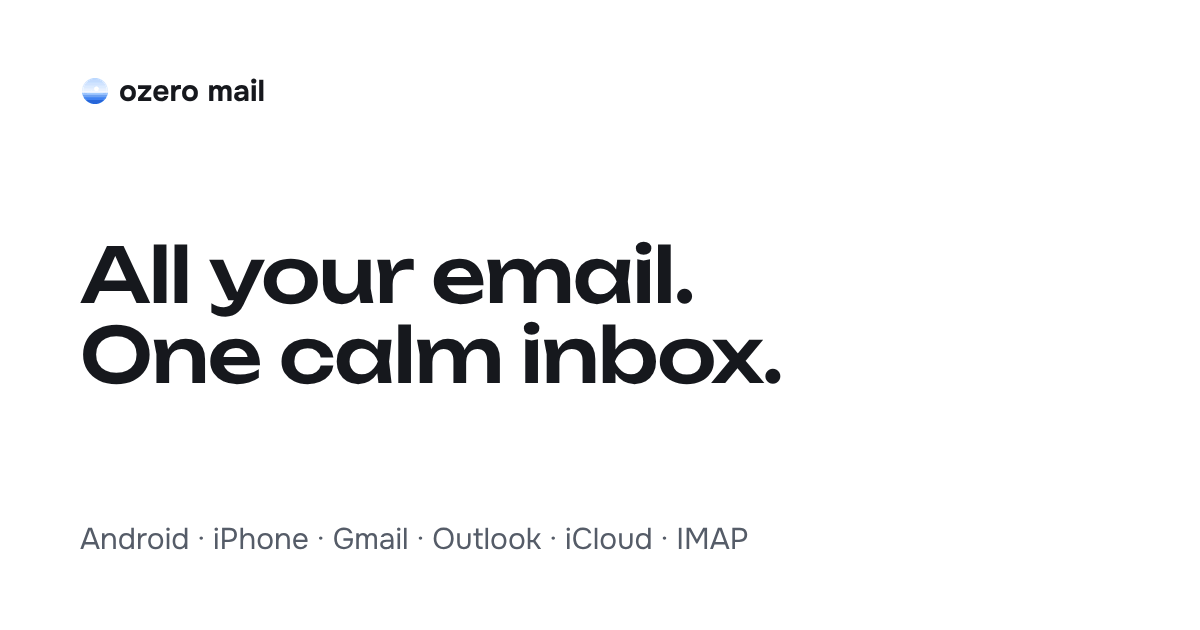
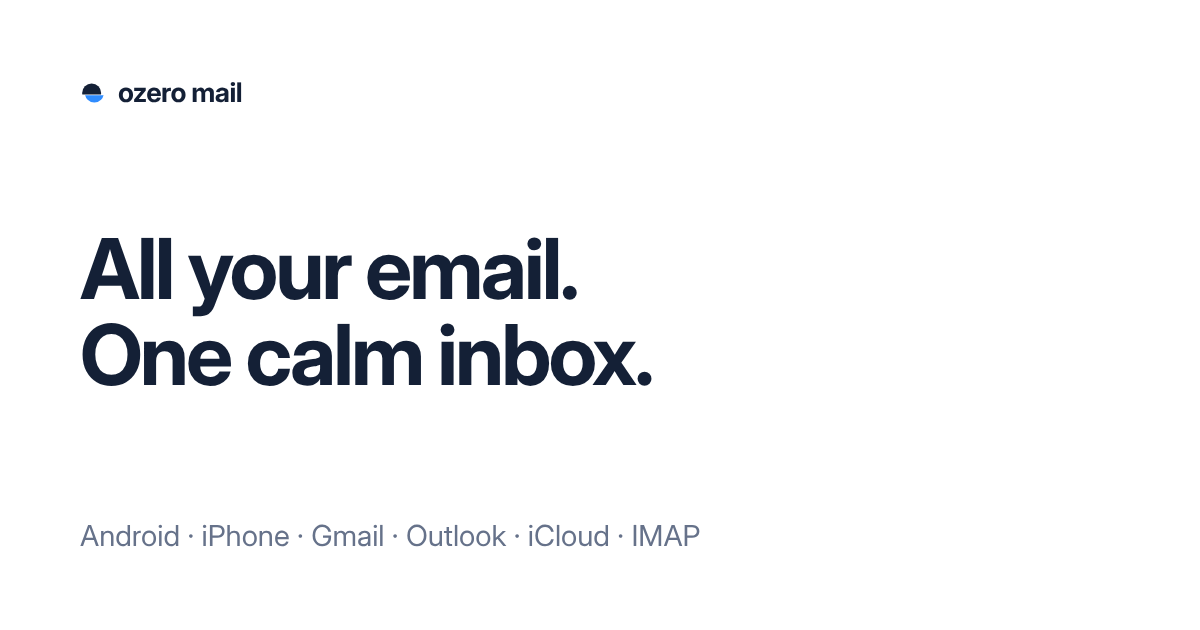
feat: switch to the Refraction mark
The header mark and the favicon become a disc cut at the water line, its
lower part slid aside in the accent. The apple-touch icon comes from the new
app icon, and the preview images get the mark and Inter.

diff --git a/src/components/mark.ts b/src/components/mark.ts
@@ -1,21 +1,16 @@
-// The logo: a round window onto a still lake, the app icon without its tile, cut into the page:
-// a shadow under its top edge.
+// The logo: the Refraction mark. A disc cut at the water line, half a stroke below the middle;
+// the lower part slides aside in the accent, as a straw does in water. At header and favicon
+// sizes the mark is the filled disc; the ring is for large sizes only.
 // One source for the header mark and the favicon. Ids must be unique per page.
 
-// Water sheets from the horizon down, each nearer one darker.
-const sheets = [[27.2, '#9cc4fd'], [30.7, '#6aa3f9'], [35.2, '#3f82f2'], [41.1, '#1f5ccd']] as const;
-
 export const markSvg = (id: string, attrs: string) => `<svg ${attrs} viewBox="0 0 48 48">
+  <style>.${id}t{fill:#142036}.${id}b{fill:#2f8cff}@media (prefers-color-scheme:dark){.${id}t{fill:#e5e9f1}.${id}b{fill:#6ab2ff}}</style>
   <defs>
-    <clipPath id="${id}c"><circle cx="24" cy="24" r="24"/></clipPath>
-    <linearGradient id="${id}s" x1="0" y1="0" x2="0" y2="1"><stop offset="0" stop-color="#b6d4ff"/><stop offset=".56" stop-color="#f4f8ff"/></linearGradient>
-    <radialGradient id="${id}d" cx=".5" cy=".6" r=".6"><stop offset=".8" stop-color="#04122e" stop-opacity="0"/><stop offset="1" stop-color="#04122e" stop-opacity=".22"/></radialGradient>
+    <clipPath id="${id}a"><rect x="-10" y="-10" width="70" height="36.7"/></clipPath>
+    <clipPath id="${id}w"><rect x="-10" y="28.3" width="70" height="40"/></clipPath>
   </defs>
-  <g clip-path="url(#${id}c)">
-    <rect width="48" height="48" fill="url(#${id}s)"/>
-    <circle cx="26.7" cy="20" r="4.3" fill="#fff"/>
-    ${sheets.map(([y, fill]) => `<path d="M0 ${y}Q24 ${y + 0.7} 48 ${y}V48H0Z" fill="${fill}"/>`).join('')}
-    <rect width="48" height="48" fill="url(#${id}d)"/>
+  <g transform="translate(-2.5 0)">
+    <circle class="${id}t" cx="24" cy="24" r="17.5" clip-path="url(#${id}a)"/>
+    <circle class="${id}b" cx="29" cy="24" r="17.5" clip-path="url(#${id}w)"/>
   </g>
-  <circle cx="24" cy="24" r="23.75" fill="none" stroke="#04122e" stroke-opacity=".08" stroke-width=".5"/>
 </svg>`;
